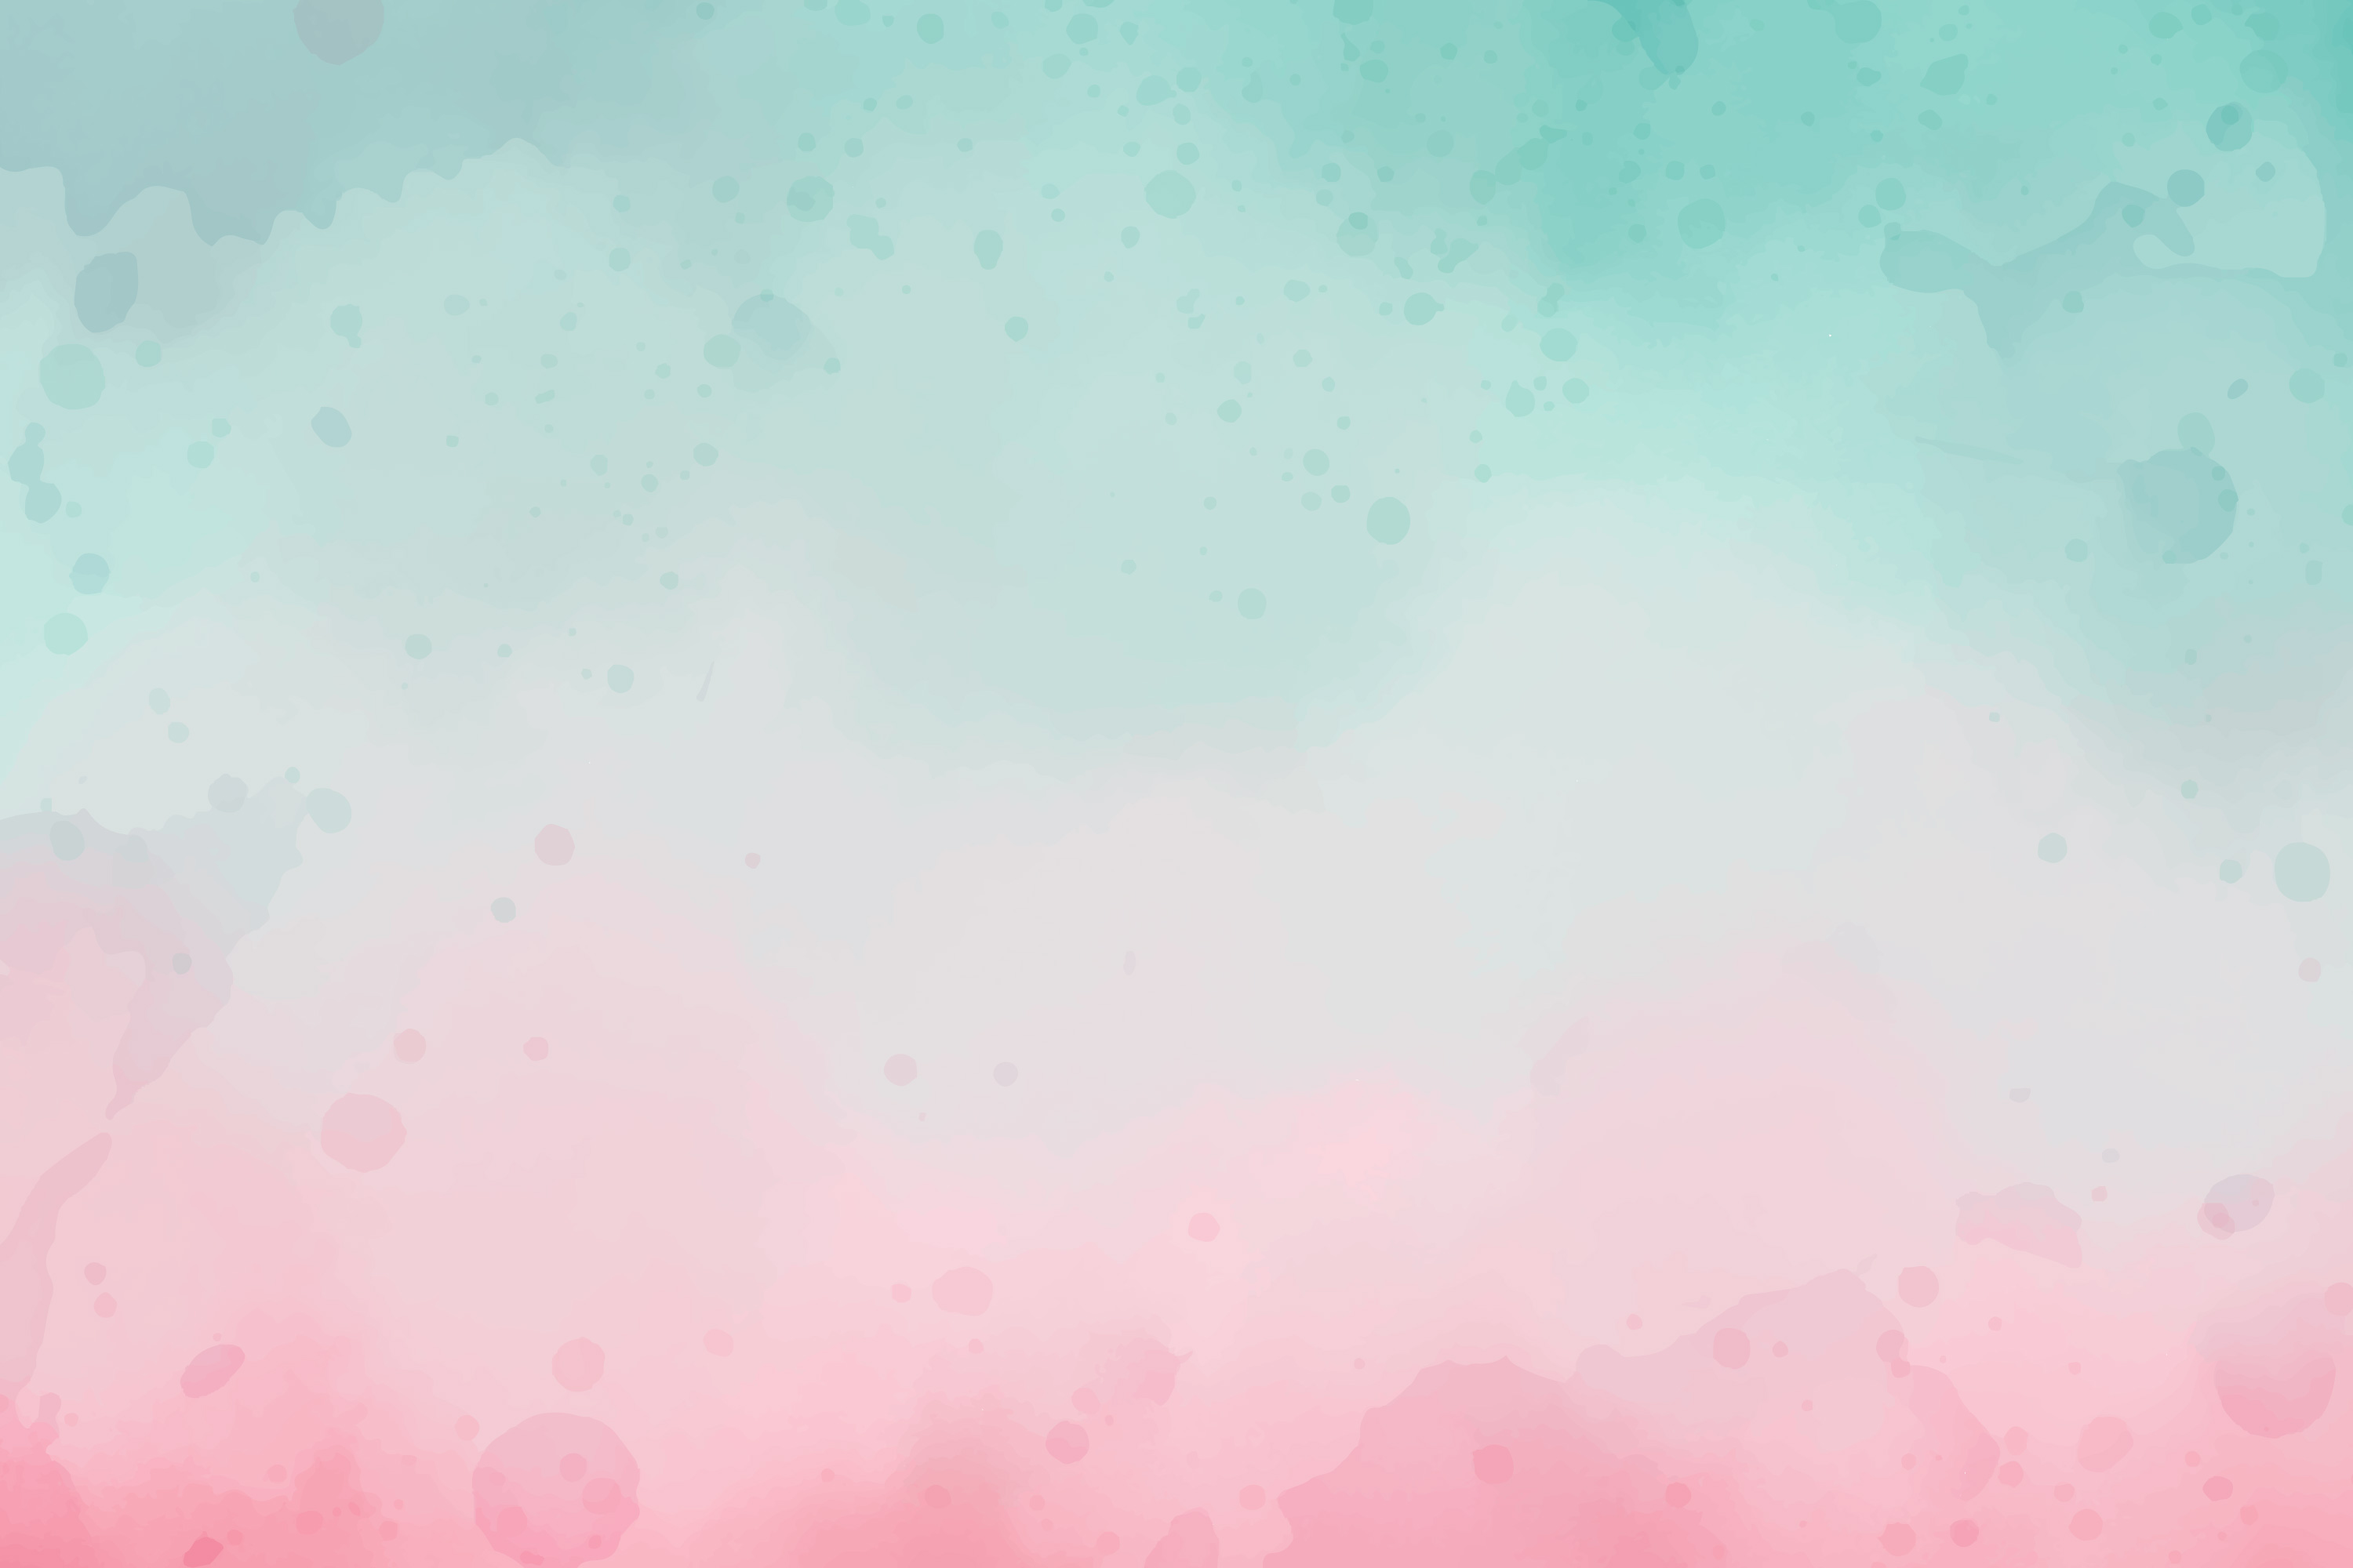
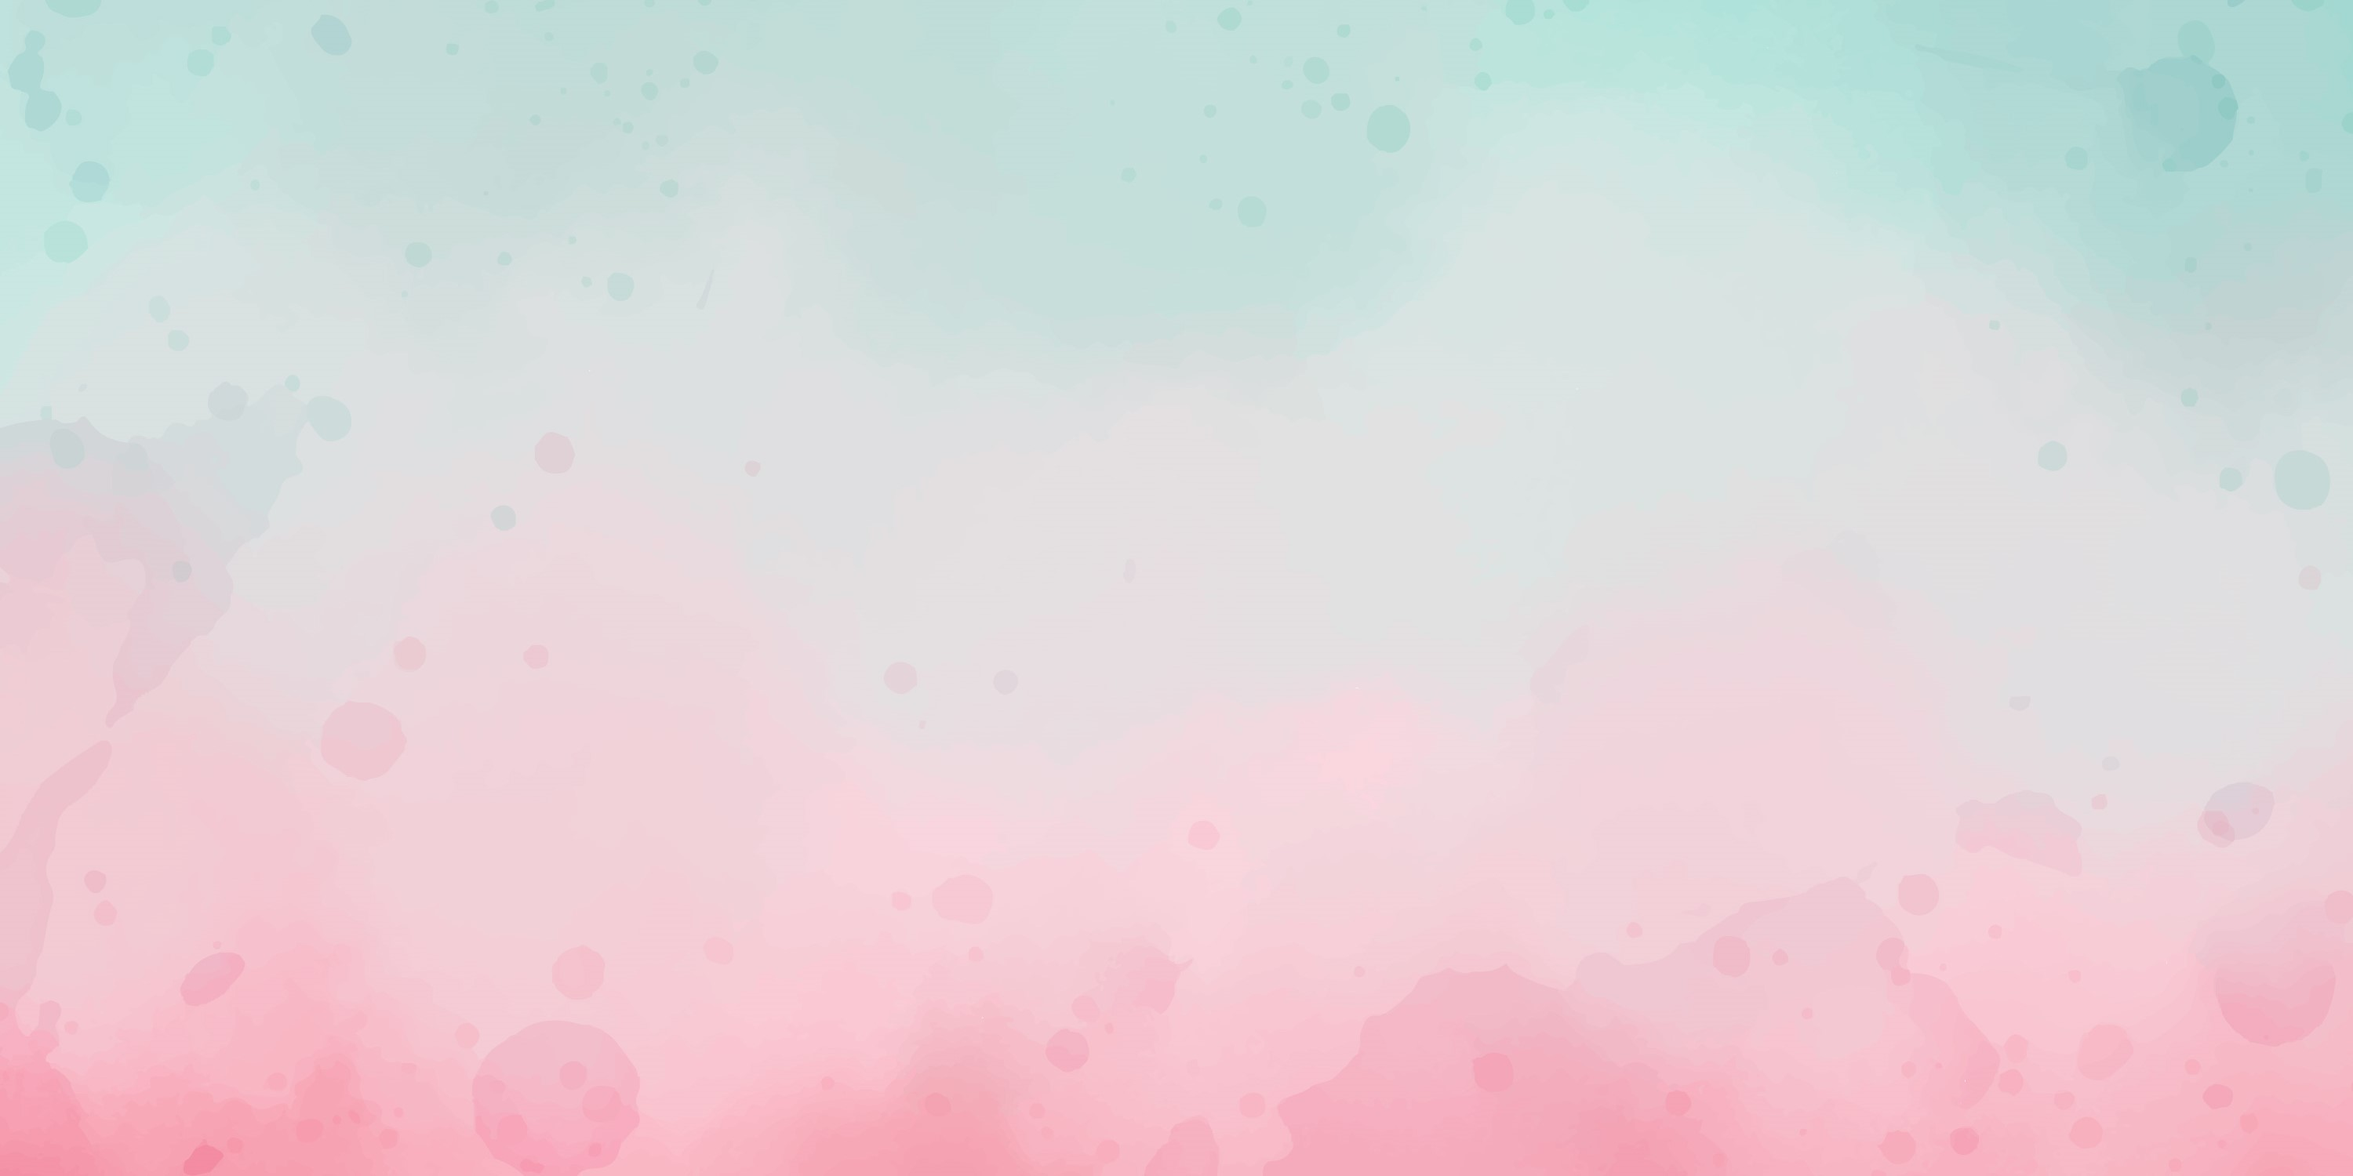
edited bg image

diff --git a/assets/index.css b/assets/index.css
@@ -6,7 +6,7 @@
 
 body{
     background-image: url('bg.jpg');
-    background-position: 0px;
+    background-size: cover;
     cursor: default;
 }
 
